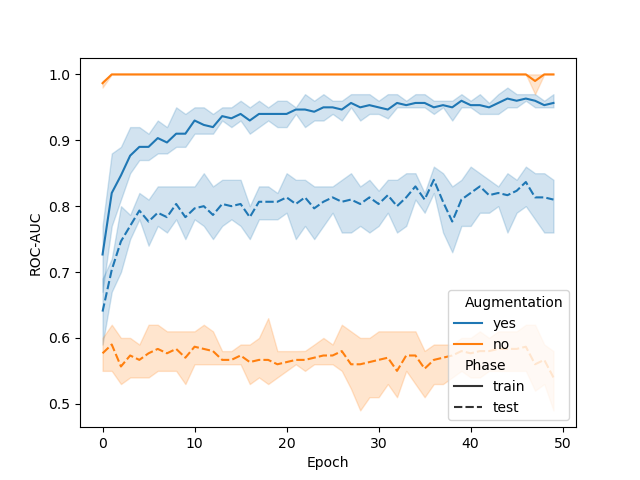
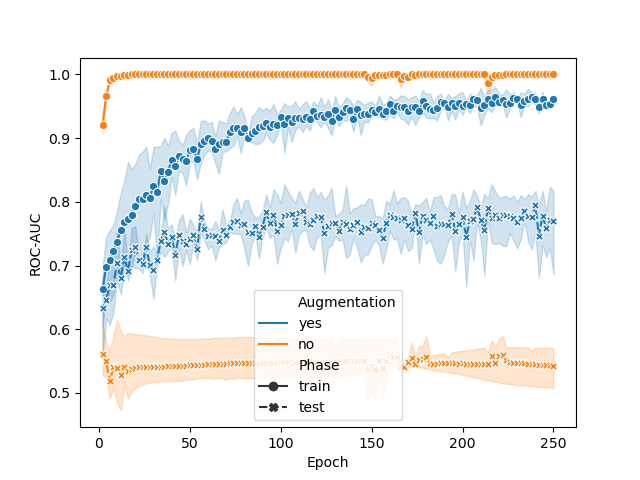
Ragoza2017 example with new epochs

diff --git a/examples/Ragoza2017/plot.py b/examples/Ragoza2017/plot.py
@@ -1,4 +1,3 @@
-import numpy as np
 import pandas as pd
 import seaborn as sns
 from matplotlib import pyplot as plt
@@ -9,14 +8,16 @@ df_all = pd.DataFrame(columns=["Fold", "ROC-AUC", "Phase", "Augmentation"])
 
 for a in ["augmentation", "no-augmentation"]:
     for p in ["train", "test"]:
-        df = pd.read_csv(f"results/{a}-{p}.csv", header=None)
+        df = pd.read_csv(f"results/{a}-{p}.csv", header=None).rename(
+            columns={0: "Epoch"}
+        )
+        print(df)
 
-        df["Epoch"] = np.arange(0, epochs, 1)
         df["Phase"] = p
         df["Augmentation"] = "yes" if a == "augmentation" else "no"
 
         df = df.melt(
-            id_vars=["Epoch", "Phase", "Augmentation"], value_vars=[0, 1, 2]
+            id_vars=["Epoch", "Phase", "Augmentation"], value_vars=[1, 2, 3]
         ).rename(columns={"variable": "Fold", "value": "ROC-AUC"})
 
         df_all = df_all.append(df, ignore_index=True)
@@ -26,5 +27,6 @@ for a in ["augmentation", "no-augmentation"]:
 sns.lineplot(
     x="Epoch", y="ROC-AUC", hue="Augmentation", style="Phase", data=df_all, markers=True
 )
+plt.legend(loc="lower center")
 plt.savefig("results/ROC-AUC.png")
 plt.savefig("results/ROC-AUC.pdf")
